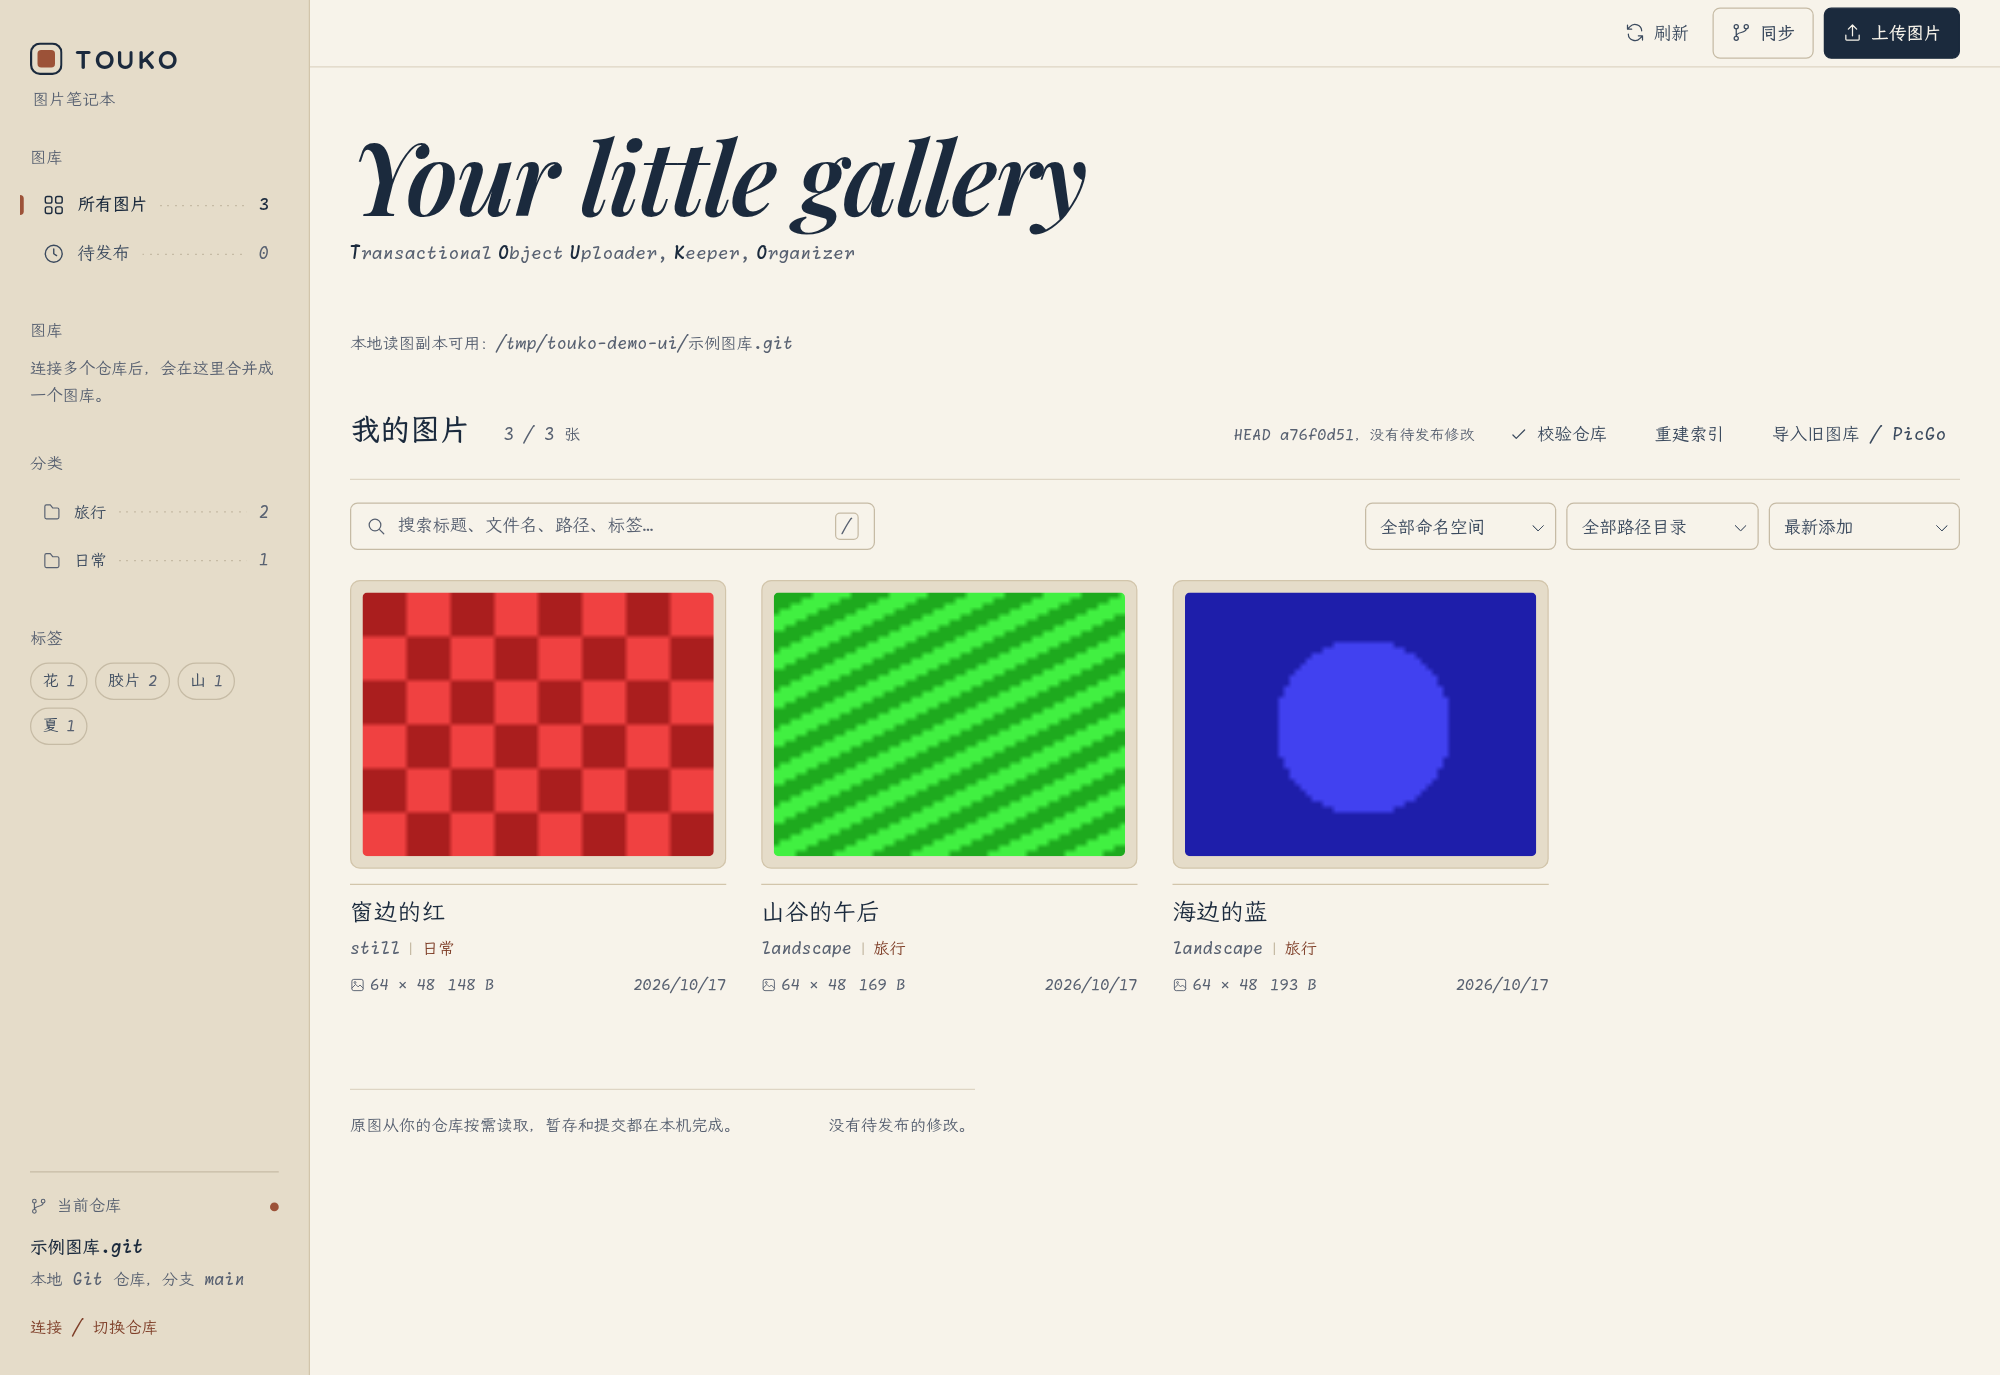
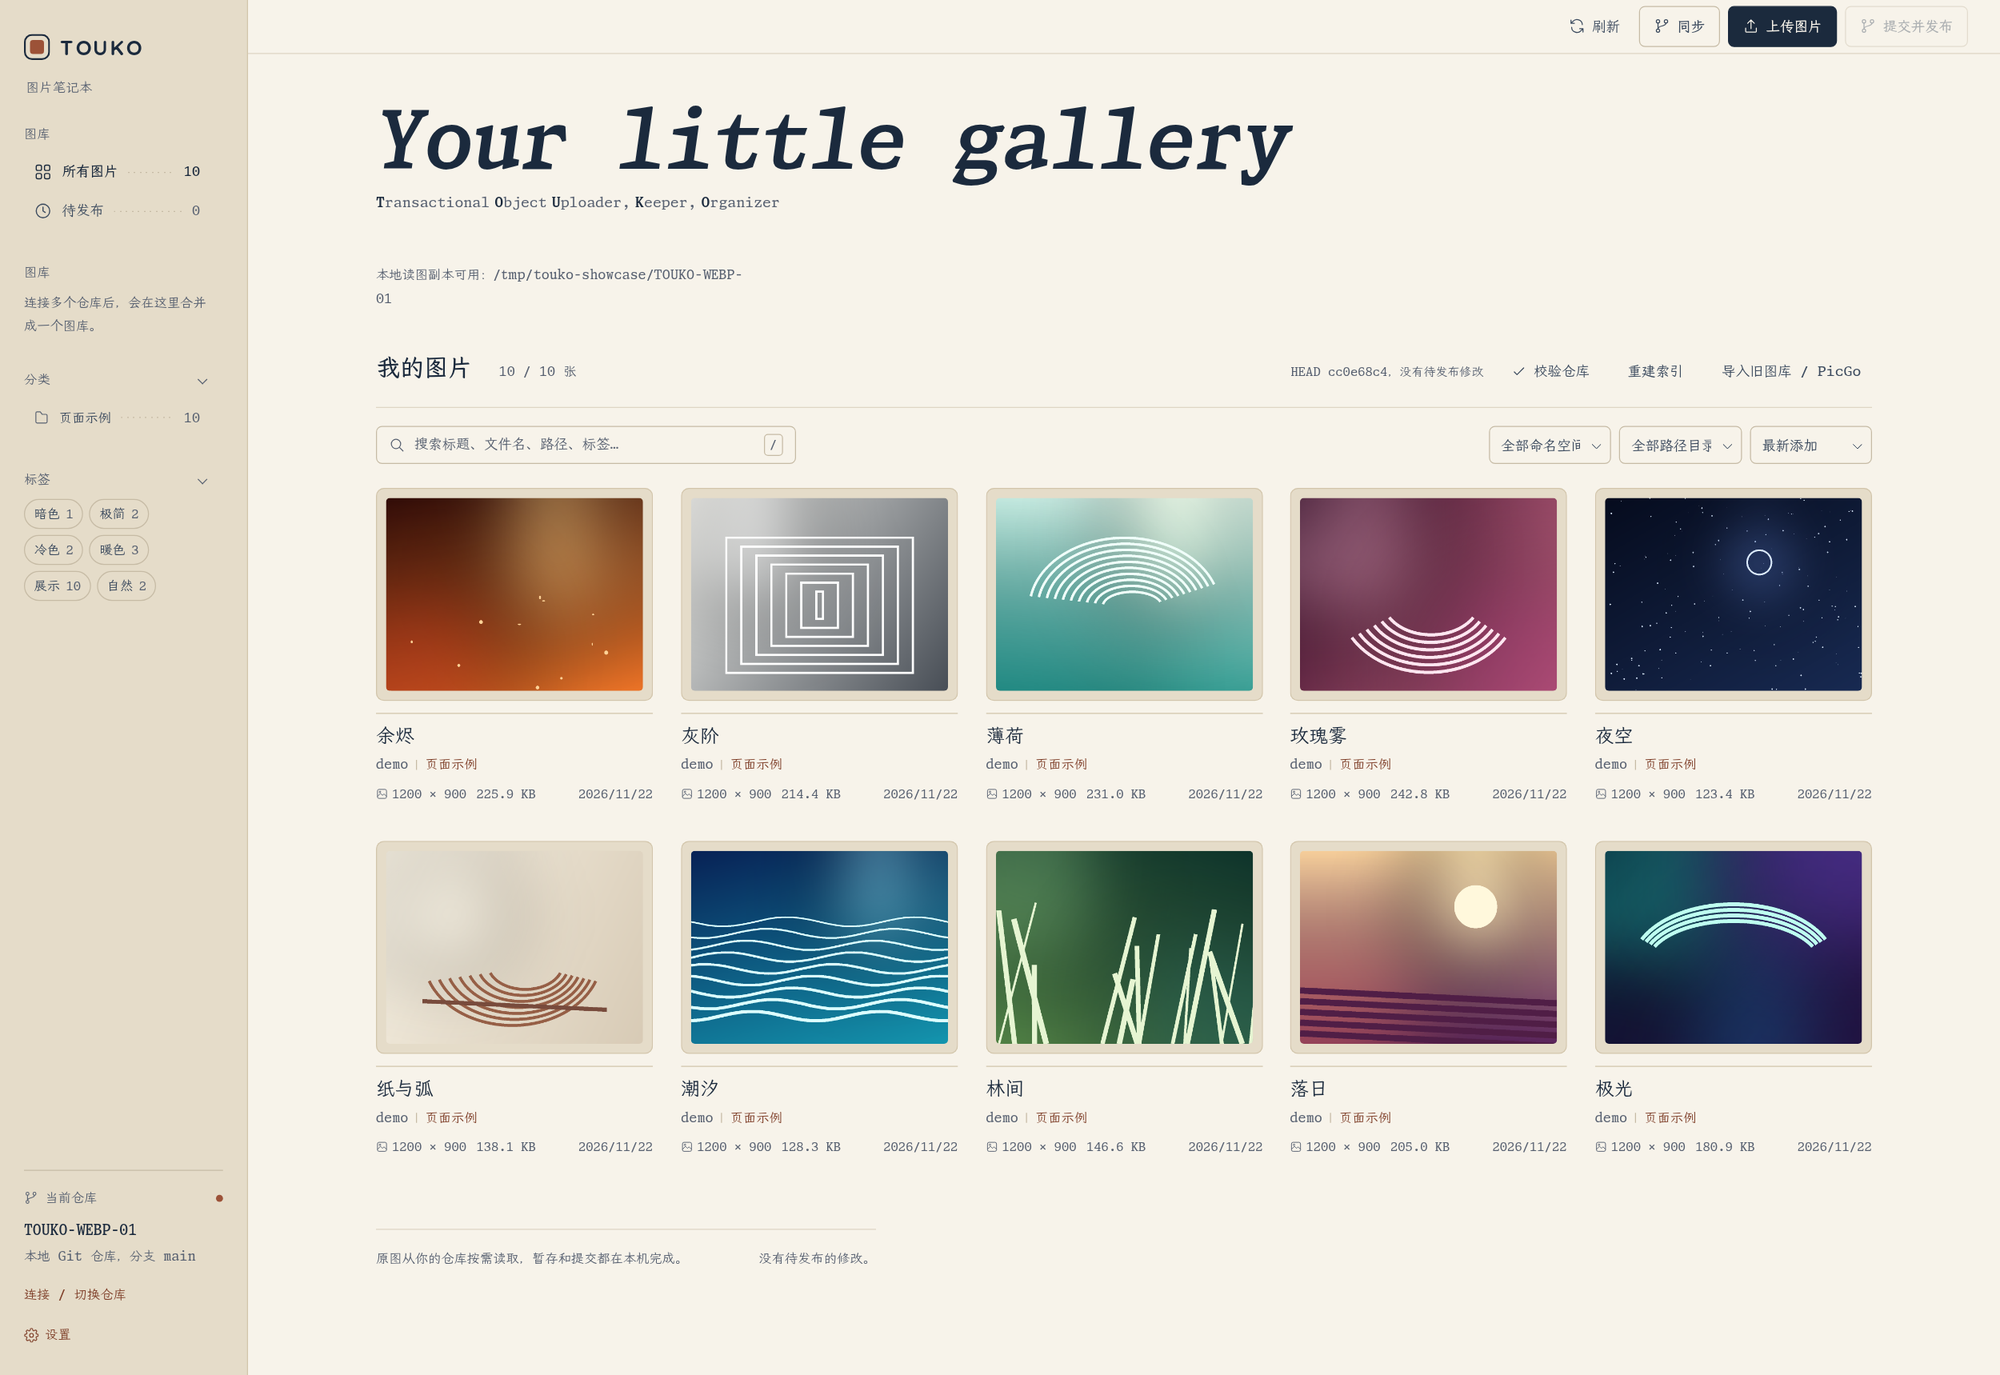
docs: add Awesome MyGo badge and refresh gallery screenshot
- Show the new local gallery page with ten sample images.
- Link the project page from both READMEs.

diff --git a/README_en.md b/README_en.md
@@ -9,6 +9,7 @@ Keep your pictures in a Git repository you own.
 [![Go](https://img.shields.io/badge/Go-1.27%2B-00ADD8?logo=go&logoColor=white)](go.mod)
 [![License](https://img.shields.io/badge/license-MIT-9c5238)](LICENSE)
 [![Platform](https://img.shields.io/badge/platform-Linux%20%7C%20Windows%20%7C%20macOS-1b2a3d)](#install)
+[![Awesome MyGo](https://img.shields.io/badge/Awesome%20MyGo-listed-3fd3f5)](https://awesomemygo.dev/apps/touko)
 
 [简体中文](README.md) · [English](README_en.md)
 
@@ -78,7 +79,9 @@ touko serve --port 7788        # browser; add --no-open to skip opening it
 touko-desktop                  # native window
 ```
 
-The server listens on `127.0.0.1` and checks Host, Origin and CSRF. GitHub credentials stay inside the server process.
+![TOUKO gallery interface: category and tag navigation on the left, test image cards on the right](docs/images/webview-gallery.png)
+
+The server listens on `127.0.0.1` and validates Host, Origin and CSRF. GitHub credentials stay inside the server process.
 
 The gear button opens settings:
 

diff --git a/README.md b/README.md
@@ -9,6 +9,7 @@
 [![Go](https://img.shields.io/badge/Go-1.27%2B-00ADD8?logo=go&logoColor=white)](go.mod)
 [![License](https://img.shields.io/badge/license-MIT-9c5238)](LICENSE)
 [![Platform](https://img.shields.io/badge/platform-Linux%20%7C%20Windows%20%7C%20macOS-1b2a3d)](#安装)
+[![Awesome MyGo](https://img.shields.io/badge/Awesome%20MyGo-listed-3fd3f5)](https://awesomemygo.dev/apps/touko)
 
 [简体中文](README.md) · [English](README_en.md)
 
@@ -77,6 +78,8 @@ touko url <UUID> --provider jsdelivr
 touko serve --port 7788        # 浏览器，加 --no-open 不自动打开
 touko-desktop                  # 原生窗口
 ```
+
+![TOUKO 图片库界面：左侧分类与标签导航，右侧测试图片卡片](docs/images/webview-gallery.png)
 
 服务只监听 `127.0.0.1`，校验 Host、Origin 和 CSRF。GitHub 凭据留在服务端进程内。
 
